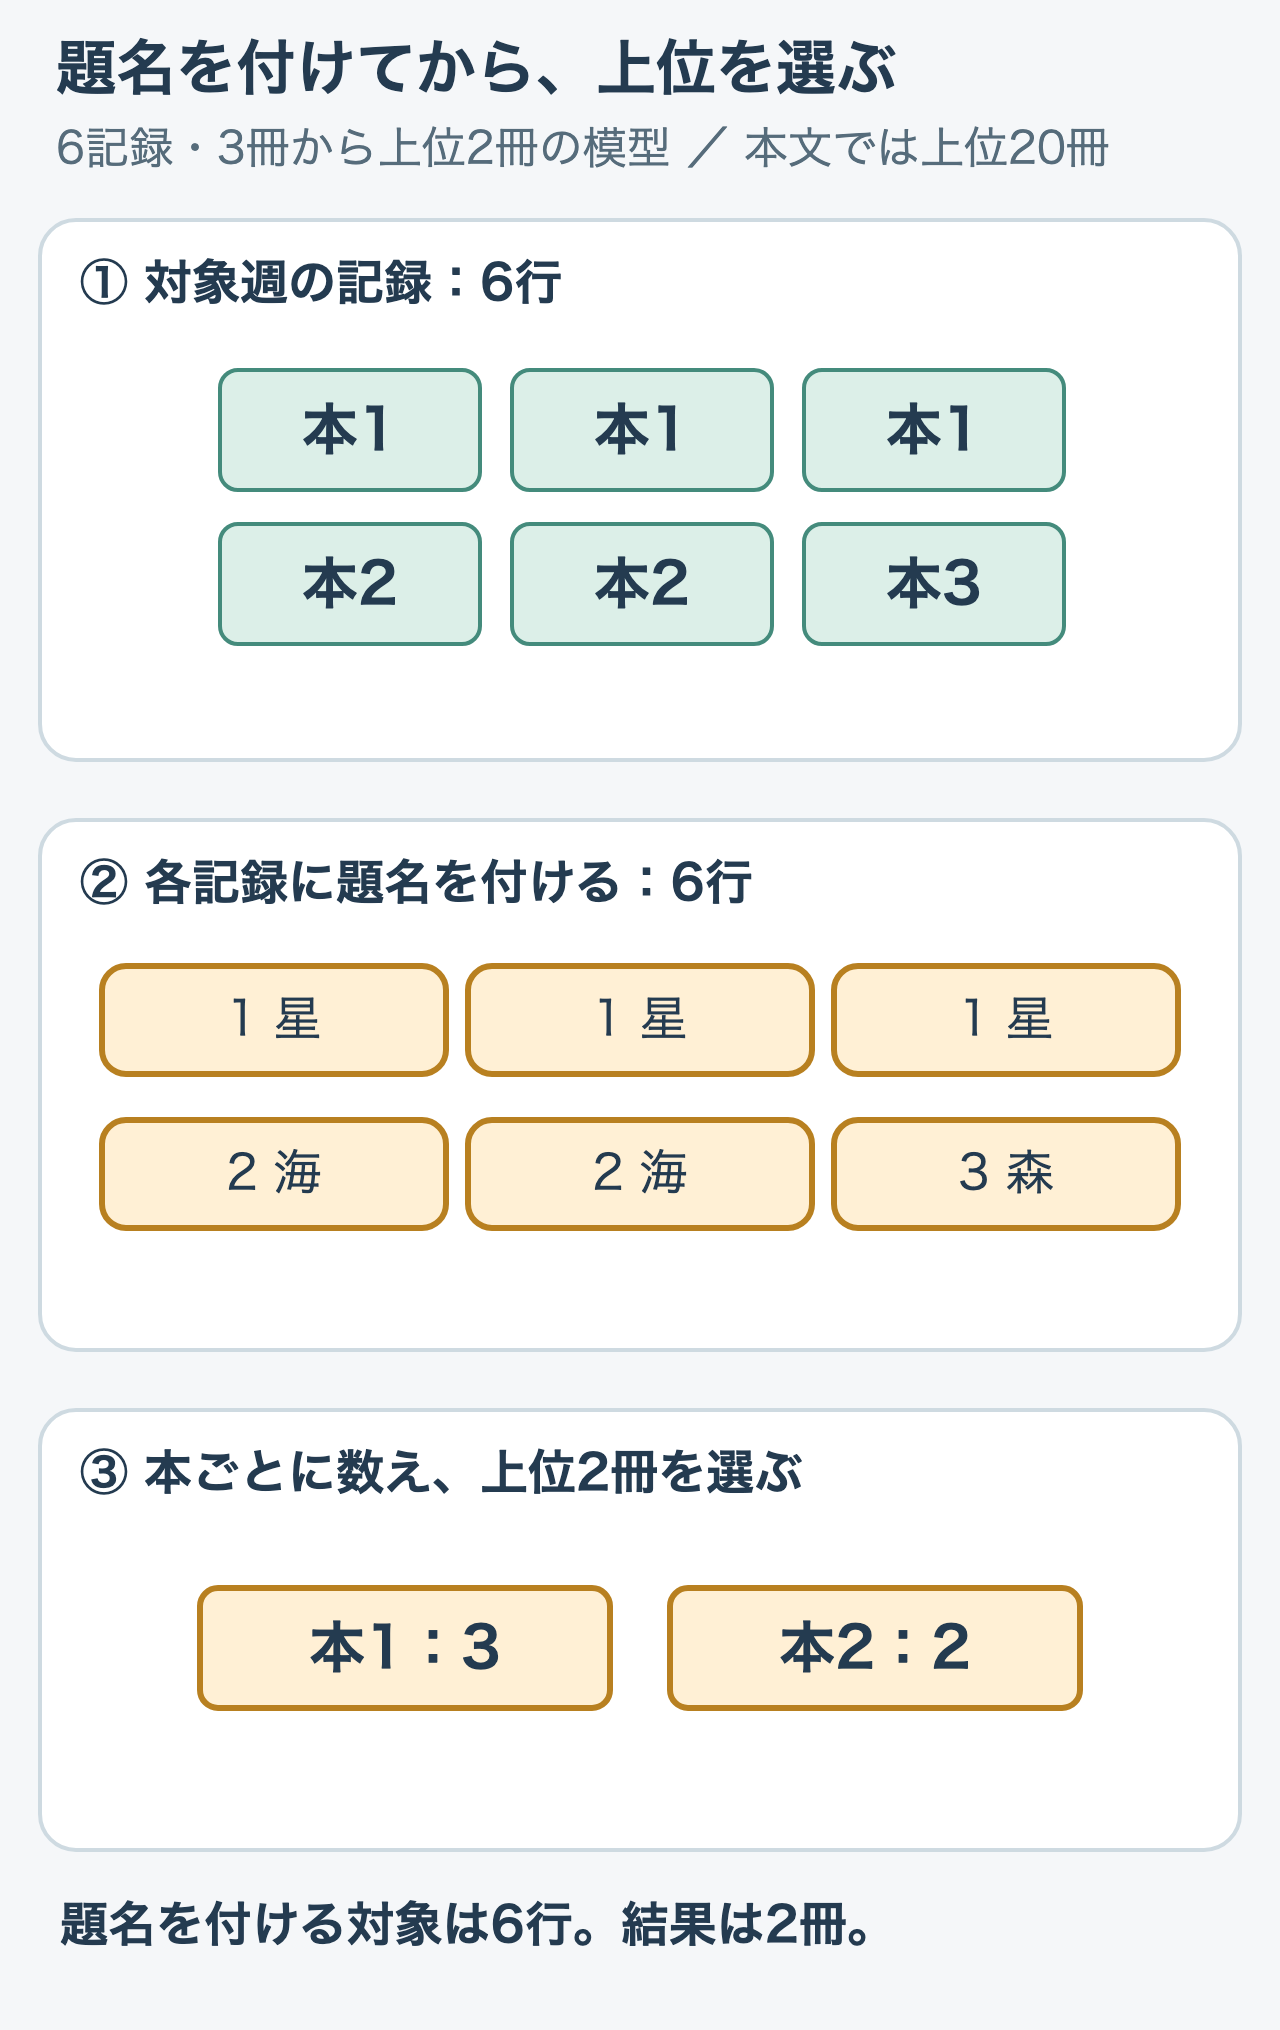
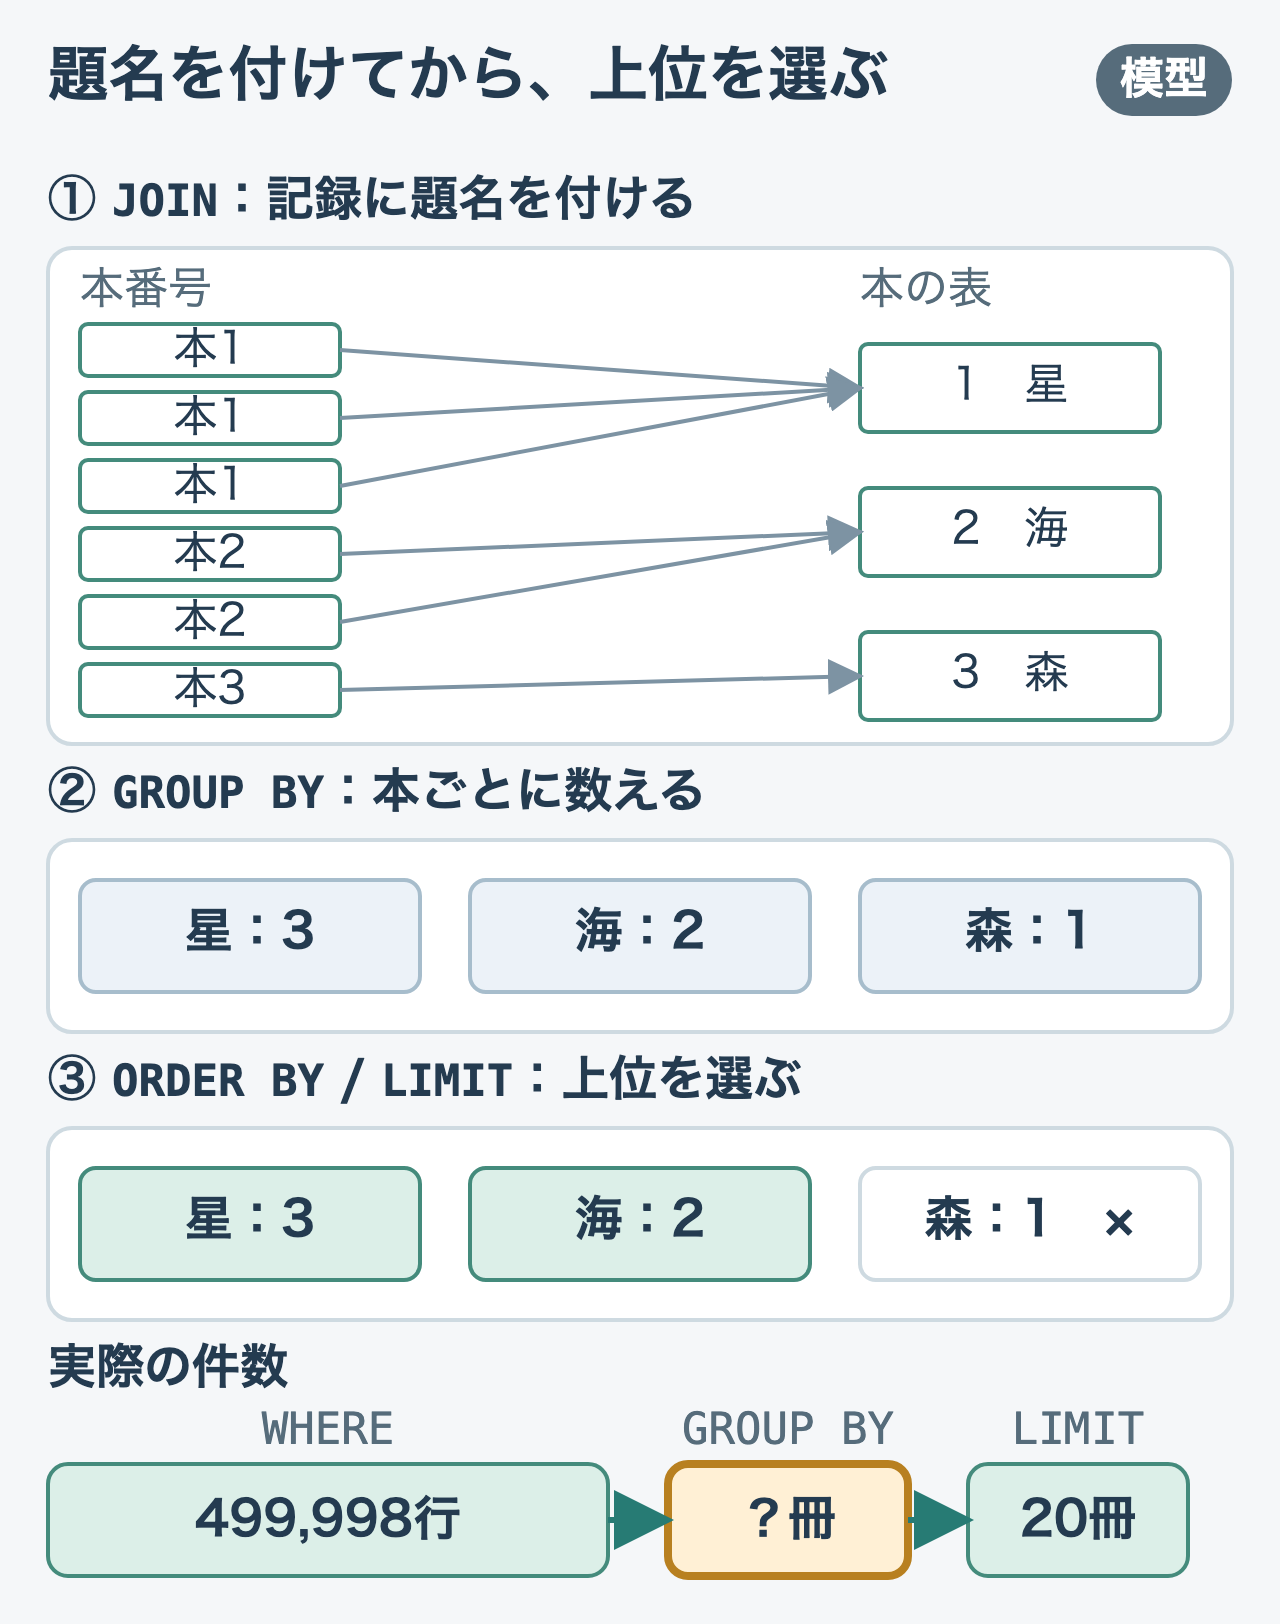
docs(query-journey): 第12章のJOIN先行の図を、序章の枠組みで描き直す
旧SVGは縦横比1.59で規約違反、文が「。」で終わり、部品見本の書き方にも
沿っていなかった。序章00-ranking-questionと同じWHERE/JOIN/GROUP BY/
ORDER BY・LIMITの枠組みに合わせ、JOINの段に本の表と6本の参照矢印を足し、
GROUP BYと上位選択の段を分けた。最下段に第7章で実測した対象週499,998行と
GROUP BY後の？冊、LIMIT後の20冊を並べ、模型と実測の対応が見えるようにした。

diff --git a/books/postgresql-query-journey/12-ranking-revisited.md b/books/postgresql-query-journey/12-ranking-revisited.md
@@ -79,8 +79,8 @@ ROLLBACK;
 
 次の案を考える前に、6件の読了記録から上位2冊を返す模型で、行数の変わり方を見ます。題名を付ける段階では何行あるかを見てください。図は処理を整理した例で、実行計画のノードが必ずこの順に並ぶわけではありません。
 
-![題名を付けてから、上位を選ぶ](/images/postgresql-query-journey/12-ranking-before.png)
-*6記録と3冊から上位2冊の模型。本文では上位20冊です。*
+![6記録すべてに題名を付けてから数え、上位2冊だけが残る](/images/postgresql-query-journey/12-ranking-before.png)
+*題名を付ける段階が6行のままである点に注目してください（実際は499,998行、模型は6記録）。*
 
 行が20行まで減るのが最後の段なら、それより前の段では多くの行を扱うことになります。推定行数と実測行数も比べましょう。見積もりが外れている問題と、見積もりが合っていても処理が多い問題は分けます。
 
